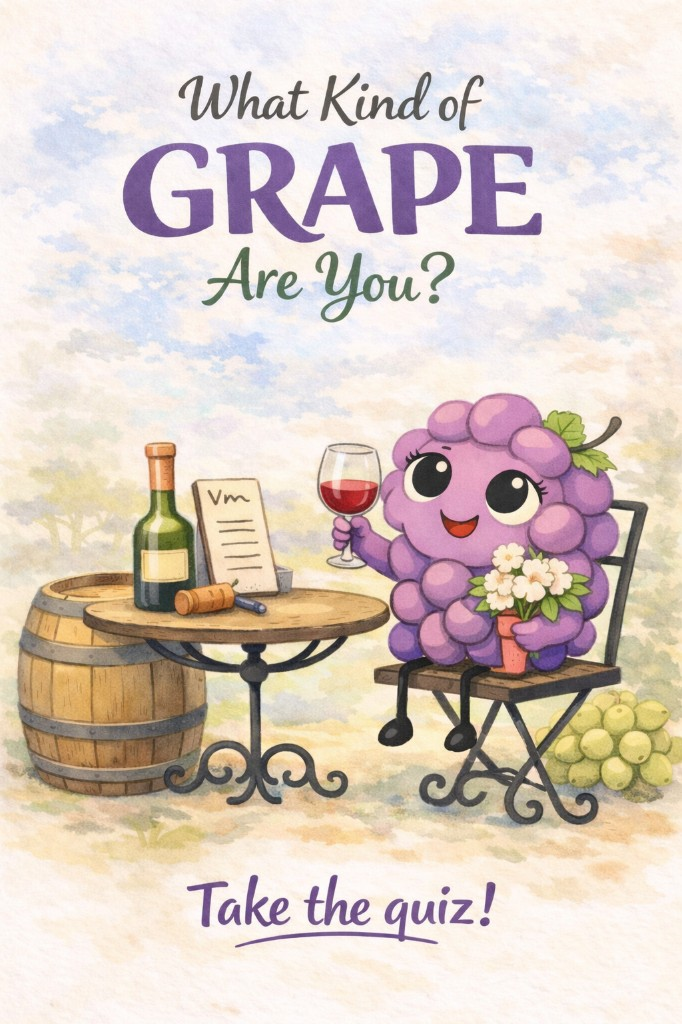
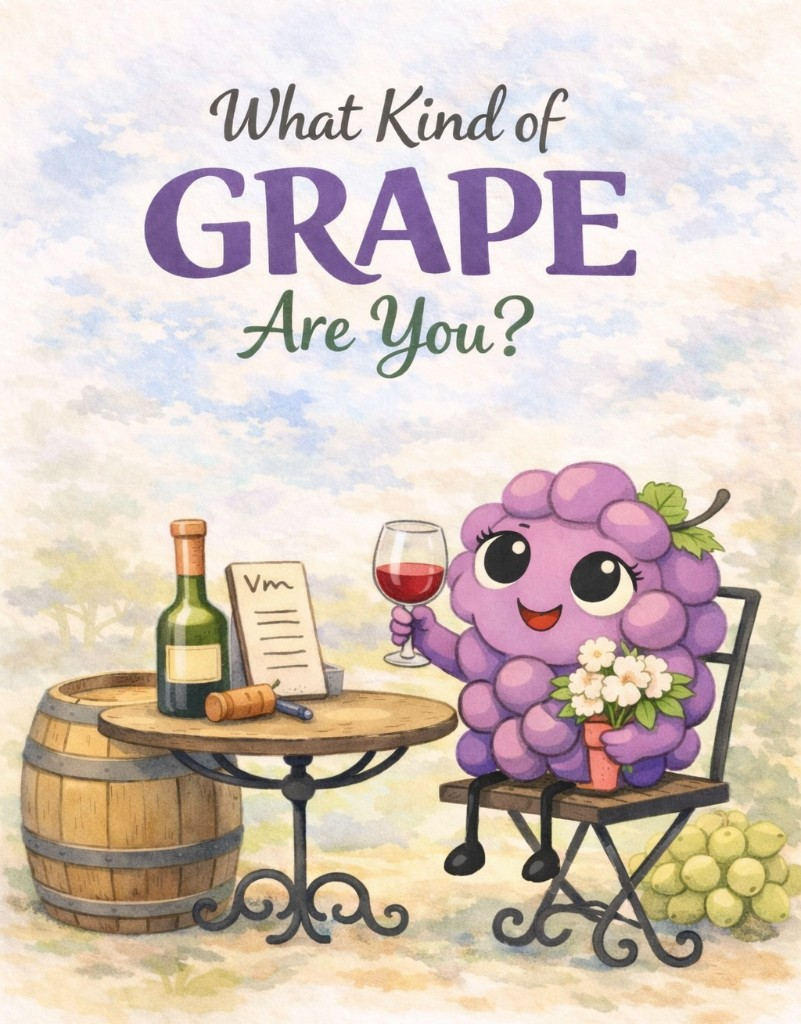
Update cover image, restore title, improve landing layout
- Replace cover image with clean version (no "Take the quiz!" text)
- Restore "What Kind of Grape Are You?" title below cover
- Load Playfair Display bold italic for proper font weight
- Remove border-radius/shadow from cover for borderless display
- Use viewport-height layout so landing fits without scrolling

diff --git a/style.css b/style.css
@@ -98,8 +98,9 @@ body {
   align-items: center;
   justify-content: center;
   text-align: center;
-  padding: 2rem;
+  padding: 1.5rem 2rem;
   overflow: hidden;
+  height: 100svh;
 }
 
 .landing-bg {
@@ -116,35 +117,43 @@ body {
   position: relative;
   z-index: 1;
   max-width: 640px;
+  display: flex;
+  flex-direction: column;
+  align-items: center;
+  max-height: 100%;
 }
 
 .landing-cover {
   width: 100%;
-  max-width: 420px;
+  max-width: 480px;
   height: auto;
-  border-radius: var(--radius-lg);
-  margin-bottom: 1.5rem;
-  box-shadow: var(--shadow);
+  max-height: 50vh;
+  object-fit: contain;
+  border-radius: 0;
+  margin-bottom: .75rem;
+  flex-shrink: 1;
+  min-height: 0;
 }
 
 .landing-title {
   font-family: 'Playfair Display', serif;
-  font-size: clamp(2rem, 5.5vw, 3rem);
+  font-size: clamp(1.8rem, 5vw, 2.8rem);
   font-weight: 700;
   color: var(--wine-deep);
-  margin-bottom: 1rem;
+  margin-bottom: .6rem;
   line-height: 1.2;
 }
 .landing-title em {
   font-style: italic;
+  font-weight: 700;
   color: var(--wine);
 }
 
 .landing-sub {
-  font-size: 1.1rem;
+  font-size: 1rem;
   color: var(--text-mid);
-  margin-bottom: 2.5rem;
-  line-height: 1.7;
+  margin-bottom: 1.25rem;
+  line-height: 1.5;
 }
 .landing-sub strong { color: var(--wine); font-weight: 600; }
 
@@ -911,11 +920,11 @@ body {
 @media (max-width: 640px) {
   html { font-size: 15px; }
 
-  #landing { padding: 1.5rem; min-height: 100svh; }
+  #landing { padding: 1.25rem 1.5rem; height: 100svh; }
   .landing-content { max-width: 100%; }
-  .landing-cover { max-width: 320px; }
-  .landing-title { margin-bottom: .75rem; }
-  .landing-sub { font-size: 1rem; }
+  .landing-cover { max-width: 100%; max-height: 45vh; }
+  .landing-title { font-size: clamp(1.6rem, 5vw, 2.2rem); margin-bottom: .5rem; }
+  .landing-sub { font-size: .92rem; margin-bottom: 1rem; }
   .landing-sub br { display: none; }
 
   #quiz { padding: 1.5rem 1rem; min-height: 100svh; }
@@ -968,10 +977,10 @@ body {
 @media (max-width: 400px) {
   html { font-size: 14px; }
 
-  #landing { padding: 1.25rem; }
-  .landing-cover { max-width: 260px; margin-bottom: .75rem; }
-  .landing-title { font-size: 1.6rem; margin-bottom: .5rem; }
-  .landing-sub { margin-bottom: 2rem; }
+  #landing { padding: 1rem 1.25rem; }
+  .landing-cover { max-height: 40vh; }
+  .landing-title { font-size: 1.4rem; margin-bottom: .4rem; }
+  .landing-sub { margin-bottom: .75rem; font-size: .85rem; }
 
   #quiz { padding: 1.25rem .875rem; }
   .option-btn { padding: .75rem .875rem; gap: .65rem; }
@@ -1047,10 +1056,10 @@ body {
    ═════════════════════════════════════════ */
 @media (max-height: 500px) and (orientation: landscape) {
   .screen { min-height: auto; }
-  #landing { min-height: 100svh; padding: 1rem 2rem; }
-  .landing-cover { max-width: 200px; margin-bottom: .5rem; }
-  .landing-title { font-size: 1.4rem; margin-bottom: .4rem; }
-  .landing-sub { margin-bottom: 1rem; font-size: .85rem; }
+  #landing { height: 100svh; padding: .75rem 2rem; }
+  .landing-cover { max-height: 35vh; }
+  .landing-title { font-size: 1.2rem; margin-bottom: .3rem; }
+  .landing-sub { margin-bottom: .5rem; font-size: .8rem; }
 
   #quiz { padding: 1rem 1.5rem; }
   .quiz-header { margin-bottom: 1rem; }

diff --git a/index.html b/index.html
@@ -9,7 +9,7 @@
   <link rel="stylesheet" href="style.css">
   <link rel="preconnect" href="https://fonts.googleapis.com">
   <link rel="preconnect" href="https://fonts.gstatic.com" crossorigin>
-  <link href="https://fonts.googleapis.com/css2?family=Playfair+Display:ital,wght@0,400;0,600;0,700;1,400&family=Inter:wght@300;400;500;600&display=swap" rel="stylesheet">
+  <link href="https://fonts.googleapis.com/css2?family=Playfair+Display:ital,wght@0,400;0,600;0,700;1,400;1,700&family=Inter:wght@300;400;500;600&display=swap" rel="stylesheet">
 </head>
 <body>
 
